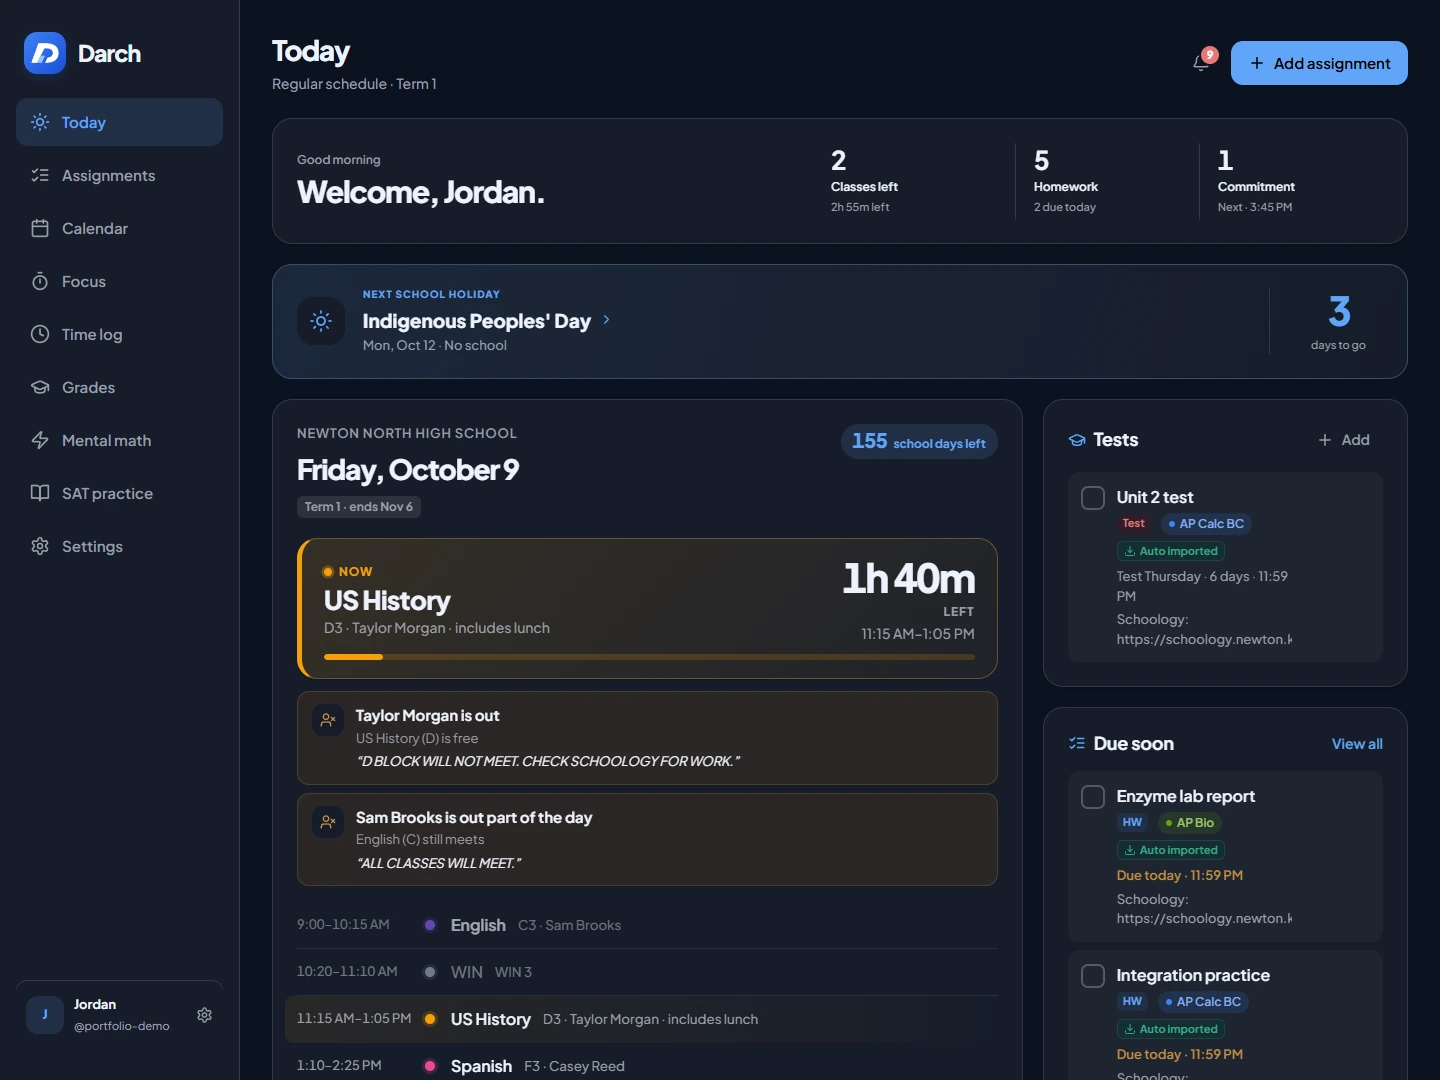
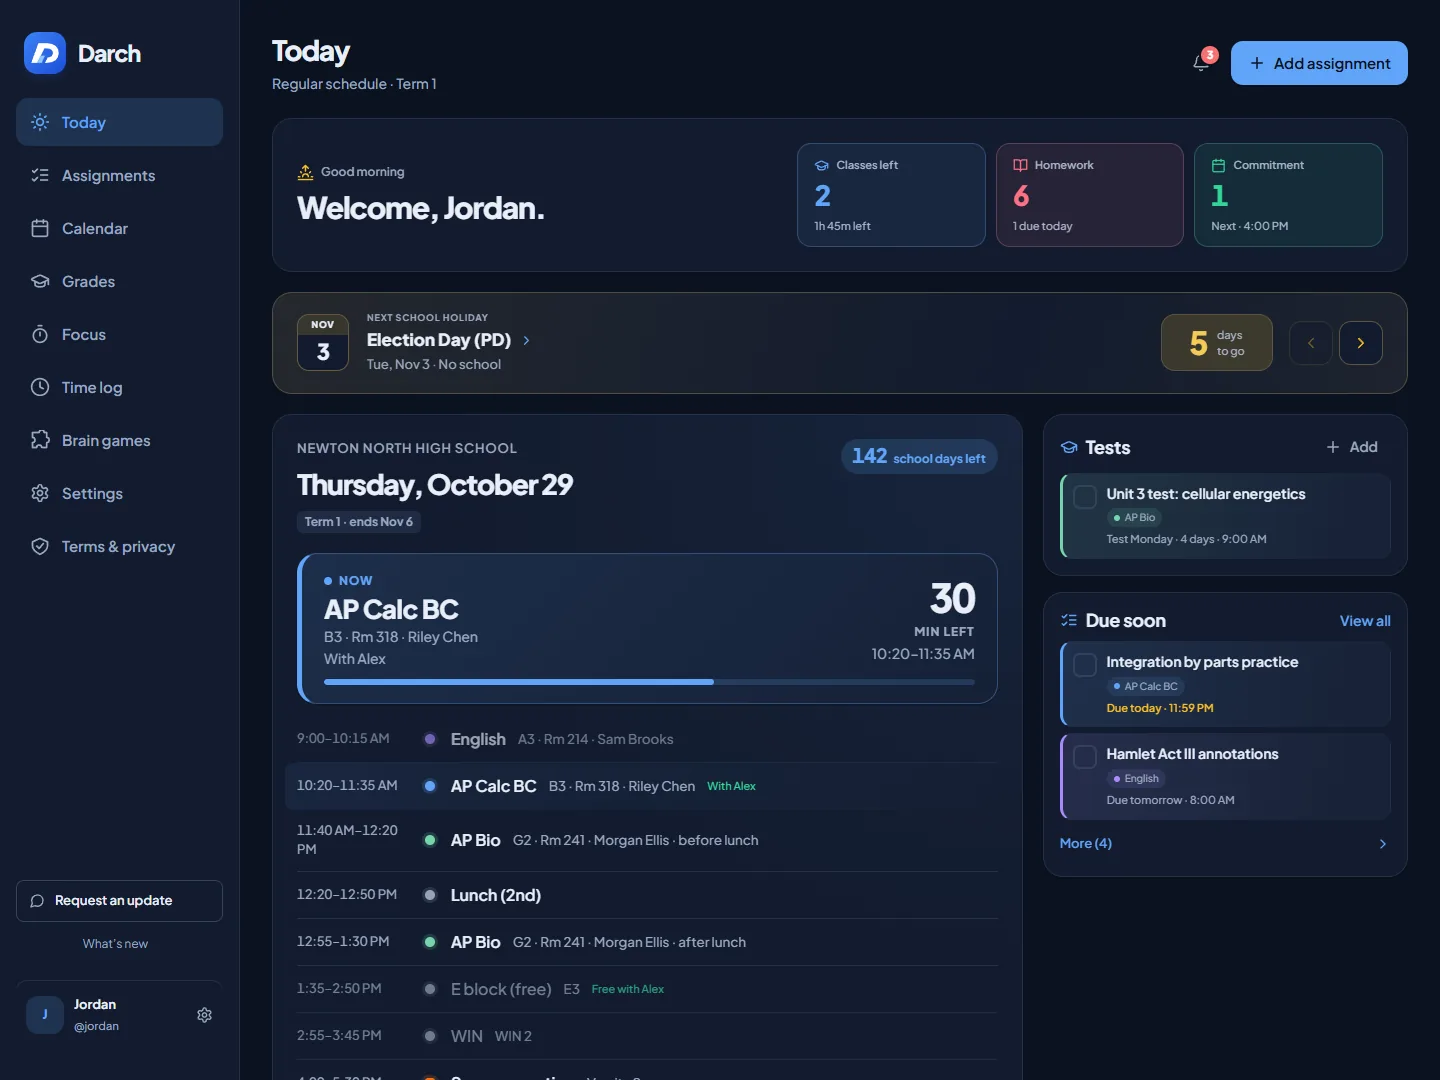
updated darch

diff --git a/script.js b/script.js
@@ -6,17 +6,19 @@ const PROJECTS = [
     kind: "school planner & study tools",
     tagline: "built for my own school day",
     description:
-      "I built Darch for my own schoolwork. It keeps my schedule, homework, grades, and focus timer synced between my phone and computer. My Chrome extension pulls assignments and grades from Schoology, matches them to my classes, and reads teacher absence notes so I know which classes still meet. I also added an SAT question bank with topic filters, Desmos, explanations, and vocab flashcards.",
+      "I built Darch for my own schoolwork, then opened it up so other students can make an account too. It keeps my schedule, homework, grades, and focus timer synced between my phone and computer. My Chrome extension pulls assignments and grades from Schoology, matches them to my classes, and reads teacher absence notes so I know which classes still meet. Every day it builds a work plan that fits homework and test prep into free blocks and around practice, based on how long similar work actually took me. Friends can see which classes and free blocks they share, but the server only sends back the overlap, never anyone's full schedule or grades. There's also an SAT question bank with Desmos and explanations, vocab flashcards, and a few brain games for study breaks.",
     tags: ["JavaScript", "Node.js", "Redis", "PWA", "Chrome Extension"],
     icon: "calendar",
     cover: "assets/projects/darch/cover.webp",
     galleryLabel: "screenshots",
     media: [
-      { type: "image", src: "assets/projects/darch/01.webp", alt: "Today in Midnight: the school schedule, imported homework, tests, and notes about teachers who are out" },
+      { type: "image", src: "assets/projects/darch/01.webp", alt: "Today: the class schedule with a live countdown, the next school holiday, upcoming tests, and the blocks I share with a friend" },
+      { type: "image", src: "assets/projects/darch/17.webp", alt: "The daily work plan: homework and test prep fit into a free block and around soccer practice and dinner, using estimates from past work" },
+      { type: "image", src: "assets/projects/darch/18.webp", alt: "Friends settings: both people choose whether to share matching classes and free blocks, while homework and grades stay private" },
       { type: "image", src: "assets/projects/darch/02.webp", alt: "Homework and tests pulled from Schoology, sorted by due date and matched to their classes" },
       { type: "image", src: "assets/projects/darch/03.webp", alt: "The week calendar with rotating school blocks, homework deadlines, and after-school plans" },
       { type: "image", src: "assets/projects/darch/04.webp", alt: "The focus timer linked to an assignment, with study totals and timer settings" },
-      { type: "image", src: "assets/projects/darch/05.webp", alt: "Grades imported from Schoology, keeping category weights and showing what I need on the final" },
+      { type: "image", src: "assets/projects/darch/05.webp", alt: "Grades: every course's current grade, with a trend line built from its recorded scores" },
       { type: "image", src: "assets/projects/darch/11.webp", alt: "The Chrome extension after a sync: new assignments, a new grade, a changed score, and two absent teachers" },
       { type: "image", src: "assets/projects/darch/12.webp", alt: "The extension's grade preview, with each class's weights and individual assignment scores" },
       { type: "image", src: "assets/projects/darch/13.webp", alt: "Reading the teacher absence post: one class won't meet, while another teacher's note says classes still meet" },
@@ -28,6 +30,7 @@ const PROJECTS = [
       { type: "image", src: "assets/projects/darch/08.webp", alt: "Working through an SAT math question, eliminating a choice and marking it for review" },
       { type: "image", src: "assets/projects/darch/09.webp", alt: "Checking a Reading & Writing answer and reading the explanation" },
       { type: "image", src: "assets/projects/darch/10.webp", alt: "SAT vocabulary flashcards, with words to review and mark as known or learning" },
+      { type: "image", src: "assets/projects/darch/19.webp", alt: "Sudoku, one of the brain games for study breaks, with saved best times" },
     ],
     links: [
       { label: "open Darch", url: "https://darch-sepia.vercel.app/", icon: "external" },
@@ -64,14 +67,14 @@ const PROJECTS = [
     kind: "vision pipeline",
     tagline: "runs entirely on local models",
     description:
-      "I run an Amazon affiliate storefront, and the slow part was always the same: watch a product video, then go find that exact item on Amazon. This does that for me. It pulls still frames out of the video, listens to the audio, and works out what the product is using a model running on my own computer instead of a paid service. Then it searches Amazon and compares the listing photos against the video, so something with the right name but the wrong picture gets thrown out instead of quietly accepted. Everything it finds comes back to me in Discord to approve, correct, or throw away before anything gets posted. Adding the products to my storefront needed its own work: Beacons has no public way to do it, so I worked out how their own site does it and wrote my own version.",
-    tags: ["Python", "Ollama", "Computer Vision", "Reverse Engineering"],
+      "Give it a product video and it figures out exactly what the product is, then finds that item on Amazon. I built it for my Amazon storefront, where the slow part was always tracking down the exact listing by hand. It pulls still frames out of the video, transcribes the audio, and identifies the product using a vision model running on my own computer instead of a paid service. Then it searches Amazon and compares the listing photos against the frames, so something with the right name but the wrong picture gets thrown out instead of quietly accepted. Each match comes back to me in Discord to approve, correct, or throw away, so nothing goes on my storefront without me checking it.",
+    tags: ["Python", "Ollama", "Computer Vision", "Whisper"],
     icon: "chip",
     cover: "assets/projects/product-matcher/cover.webp",
+    galleryLabel: "screenshots",
     media: [
       { type: "image", src: "assets/projects/product-matcher/01.webp", alt: "Log of one run: transcribe the audio, pull frames, identify the product, search Amazon, compare the product photos, confirmed at 0.9 confidence" },
-      { type: "image", src: "assets/projects/product-matcher/02.webp", alt: "The bot reporting five videos matched to Amazon products, three confirmed and two flagged for a closer look" },
-      { type: "image", src: "assets/projects/product-matcher/03.webp", alt: "The review step, with buttons to accept a match, paste a correction, bin it, or skip it for later" },
+      { type: "image", src: "assets/projects/product-matcher/02.webp", alt: "The review step, with buttons to accept a match, paste a correction, bin it, or skip it for later" },
     ],
   },
   {
@@ -642,4 +645,3 @@ initLightbox();
 observeReveals(document.querySelectorAll(".reveal"));
 renderProjects();
 fetchStars();
-document.getElementById("year").textContent = new Date().getFullYear();

diff --git a/index.html b/index.html
@@ -187,7 +187,7 @@
             <ul class="tools-strip">
               <li>JavaScript</li><li>Node.js</li><li>Redis</li><li>PWA</li>
               <li>TypeScript</li><li>Next.js</li><li>React</li><li>PostgreSQL</li>
-              <li>Python</li><li>Selenium</li><li>undetected-chromedriver</li><li>requests</li>
+              <li>Python</li><li>Selenium</li><li>requests</li>
               <li>imaplib</li><li>GitHub Actions</li><li>PyPI</li><li>Git</li>
               <li>Arduino</li><li>C++</li>
             </ul>
@@ -212,6 +212,11 @@
           <li>
             <span class="log-star" aria-hidden="true">*</span>
             <span class="log-date">2026-10</span>
+            <span class="log-msg">opened <strong>Darch</strong> to other students, with friends, a daily work plan, and brain games</span>
+          </li>
+          <li>
+            <span class="log-star" aria-hidden="true">*</span>
+            <span class="log-date">2026-09</span>
             <span class="log-msg">built <strong>Darch</strong>, a school planner with Schoology sync and an SAT question bank</span>
           </li>
           <li>
@@ -288,13 +293,6 @@
       </div>
     </div>
   </div>
-
-  <footer class="footer">
-    <div class="container footer-inner">
-      <p>&copy; <span id="year">2026</span> darcodev &middot; built by hand, no framework.</p>
-      <a href="#top" class="back-top">back to top &uarr;</a>
-    </div>
-  </footer>
 
   <script src="script.js"></script>
 </body>

diff --git a/styles.css b/styles.css
@@ -742,23 +742,6 @@ h2 {
 .contact-card .section-sub { margin-inline: auto; }
 .contact-card .hero-actions { justify-content: center; margin-top: var(--space-8); }
 
-/* footer */
-.footer {
-  border-top: 1px solid var(--color-border);
-  padding-block: var(--space-8);
-}
-.footer-inner {
-  display: flex;
-  flex-wrap: wrap;
-  align-items: center;
-  justify-content: space-between;
-  gap: var(--space-4);
-  color: var(--color-text-dim);
-  font-size: 0.82rem;
-}
-.back-top { display: inline-flex; align-items: center; min-height: 44px; transition: color 150ms ease; }
-.back-top:hover { color: var(--color-accent); }
-
 /* scroll reveal */
 .js .reveal {
   opacity: 0;

diff --git a/assets/projects/darch/README.md b/assets/projects/darch/README.md
@@ -25,11 +25,11 @@ in for the Schoology tab; no real Schoology account was accessed.
 
 | File | Page |
 | --- | --- |
-| `01.webp` | Today |
+| `01.webp` | Today (Nov 1 refresh) |
 | `02.webp` | Assignments |
 | `03.webp` | Calendar, week view |
 | `04.webp` | Focus timer |
-| `05.webp` | Grades |
+| `05.webp` | Grades overview (Nov 1 refresh) |
 | `06.webp` | SAT practice library |
 | `07.webp` | SAT math topic and difficulty filters |
 | `08.webp` | SAT math practice, answer elimination and review flag |
@@ -41,6 +41,18 @@ in for the Schoology tab; no real Schoology account was accessed.
 | `14.webp` | Extension course matching |
 | `15.webp` | Imported assignment source details |
 | `16.webp` | Import notifications for assignments, grades and absences |
+| `17.webp` | Daily work plan |
+| `18.webp` | Friends settings and sharing choices |
+| `19.webp` | Sudoku, from Brain games |
+
+## November 1 refresh
+
+`cover`, `01`, `05`, `17`, `18` and `19` were recaptured on November 1, 2026 from
+Darch's `main` branch as of October 31. The build ran from a clean export with an
+isolated in-memory store and two sample accounts, `jordan` and `alex.r`, who share
+AP Calc BC and a free E block. Classes, teachers, assignments, grades and game
+bests are sample data. The demo clock shows Thursday, October 29, 2026 at 11:05 AM.
+No real account or production data was used.
 
 For a refresh, use a disposable local account with sample planner data, run the
 current Darch source in Midnight, and capture the same pages in Chrome. Keep filenames stable

diff --git a/assets/projects/README.md b/assets/projects/README.md
@@ -8,11 +8,11 @@ Current setup:
 ```
 darch/
   cover.webp   <- Today, card thumbnail
-  01.webp      <- Today: schedule, imported work, teacher absences
+  01.webp      <- Today: schedule, countdown, shared blocks with a friend
   02.webp      <- assignments
   03.webp      <- week calendar
   04.webp      <- focus timer and study sessions
-  05.webp      <- weighted grades and final-grade calculator
+  05.webp      <- grades overview with trend lines
   06.webp      <- SAT question bank and vocabulary
   07.webp      <- SAT math topics and difficulty filters
   08.webp      <- SAT math answer elimination and review flag
@@ -24,6 +24,9 @@ darch/
   14.webp      <- extension course matching
   15.webp      <- imported assignment source details
   16.webp      <- import notifications
+  17.webp      <- daily work plan
+  18.webp      <- friends settings and sharing choices
+  19.webp      <- Sudoku (brain games)
   (real browser captures in Midnight; see darch/README.md)
 
 navar/
